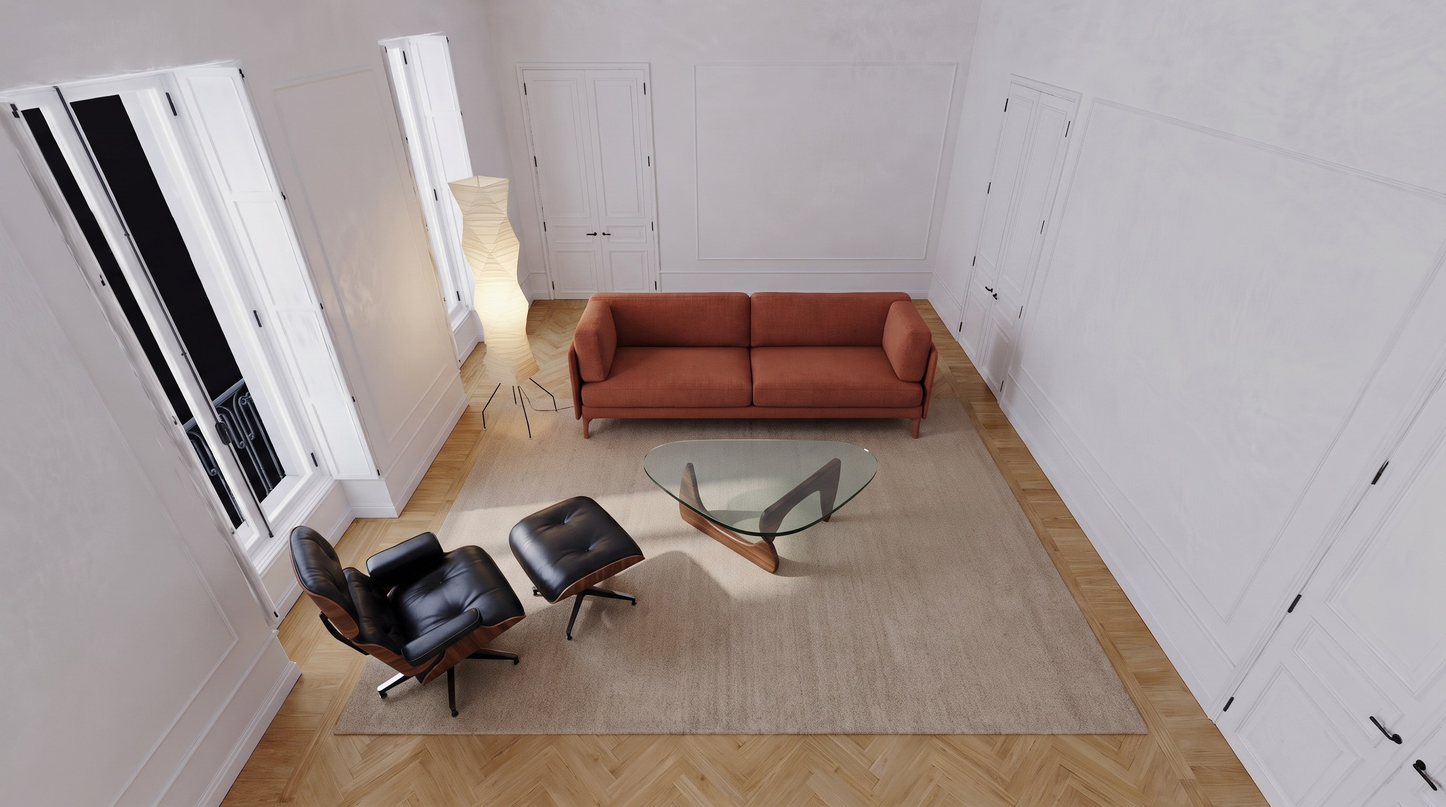
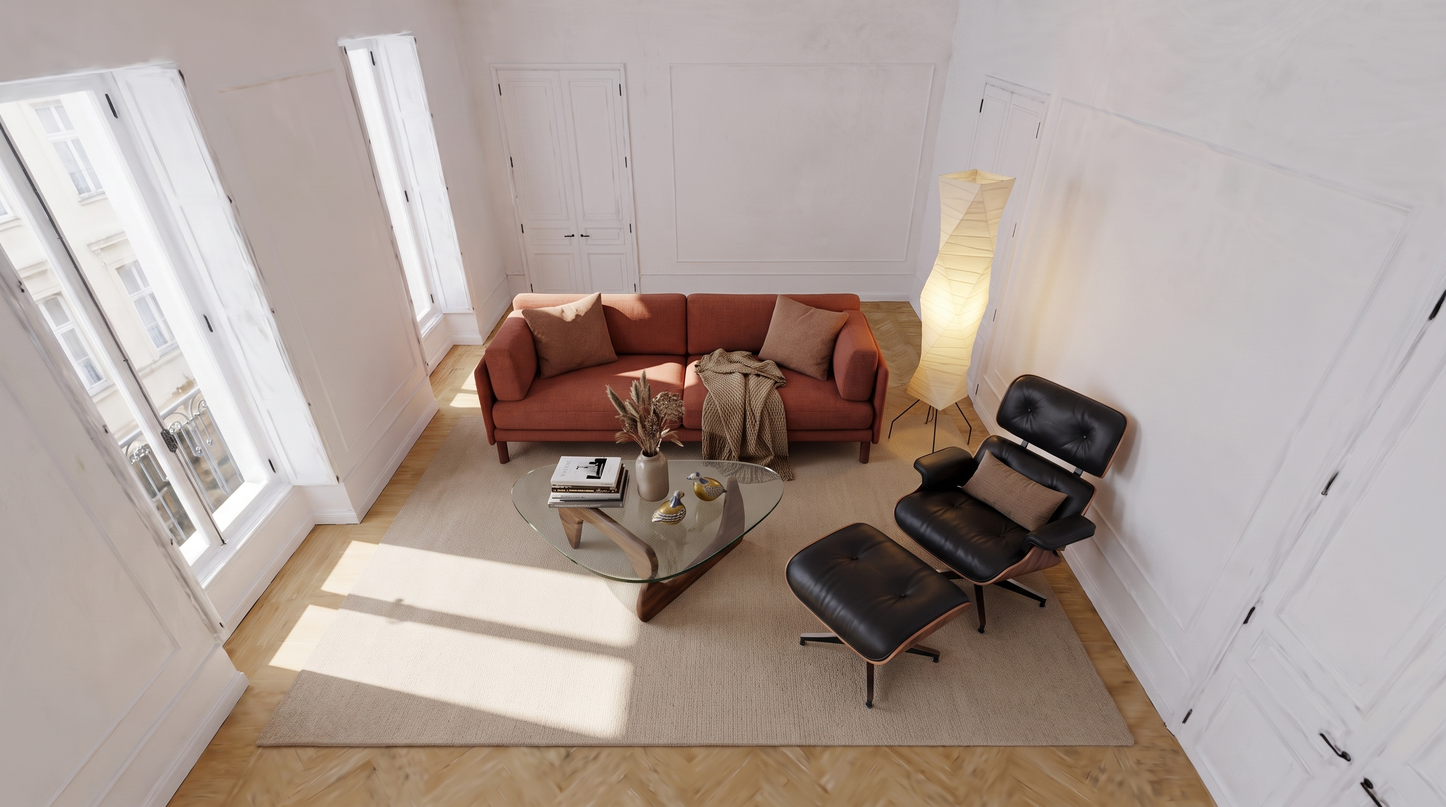
feat(staging): richer prompt (refs + free complementary decor) + re-stage demo
- staging-prompt: reference pieces stay required + faithful, but the model may
  now freely add tasteful complementary accessories/décor (and furniture where
  it fits) that suit the room's style and scale — no longer "only these pieces".
  Structure and the architecture-freeze block are unchanged.
- stage-scan: generalise so it can re-stage an EXISTING scan (SI_VIEWER_URL to
  capture from the live demo's default R2 assets, SI_OUT_DIR, SI_NO_SETTINGS,
  SI_PAINT_MS for slower streamed loads).
- regenerate the Altbau demo staging (classic/scandi/warm) with the new prompt:
  designer pieces + tasteful accessories, architecture pixel-stable. Portrait
  variants still the old renders (landscape only for now).

Claude-Session: https://claude.ai/code/session_01FHg8ujWKfM5qFKwE9d8Noe

diff --git a/apps/concierge-api/src/staging-prompt.ts b/apps/concierge-api/src/staging-prompt.ts
@@ -34,7 +34,7 @@ export interface StagingStyle {
 }
 
 /** Shared rule block appended to every style prompt. */
-const PRESERVE = `Keep the centre of the floor open and leave every door and window clear. Use only these few pieces; do not invent extra furniture. Ignore any logos, text or watermarks printed on the reference photos.
+const PRESERVE = `Keep the centre of the floor open and leave every door and window clear. Always include the specified reference pieces, reproduced faithfully — those are required. Beyond them you MAY freely add tasteful, complementary items where they genuinely suit the room's style, scale and mood: accessories and décor (a rug, cushions, a throw, books, a vase, plants, framed art) and additional furniture where it fits and makes sense for the space. Keep it realistic, cohesive and never cluttered. Ignore any logos, text or watermarks printed on the reference photos.
 
 CRITICAL - FREEZE THE ARCHITECTURE: treat the room shell as a locked background plate. Do NOT move, resize, add, remove or redraw any window, door, wall, moulding, panel, skirting or the ceiling. Every window and door must keep its EXACT position, width, height and perspective from image 1, pixel-for-pixel. Keep the identical floor, the exact same camera angle, vanishing lines and daylight. The ONLY change allowed is placing the furniture on the floor, so the result lines up perfectly with the original empty room.
 
